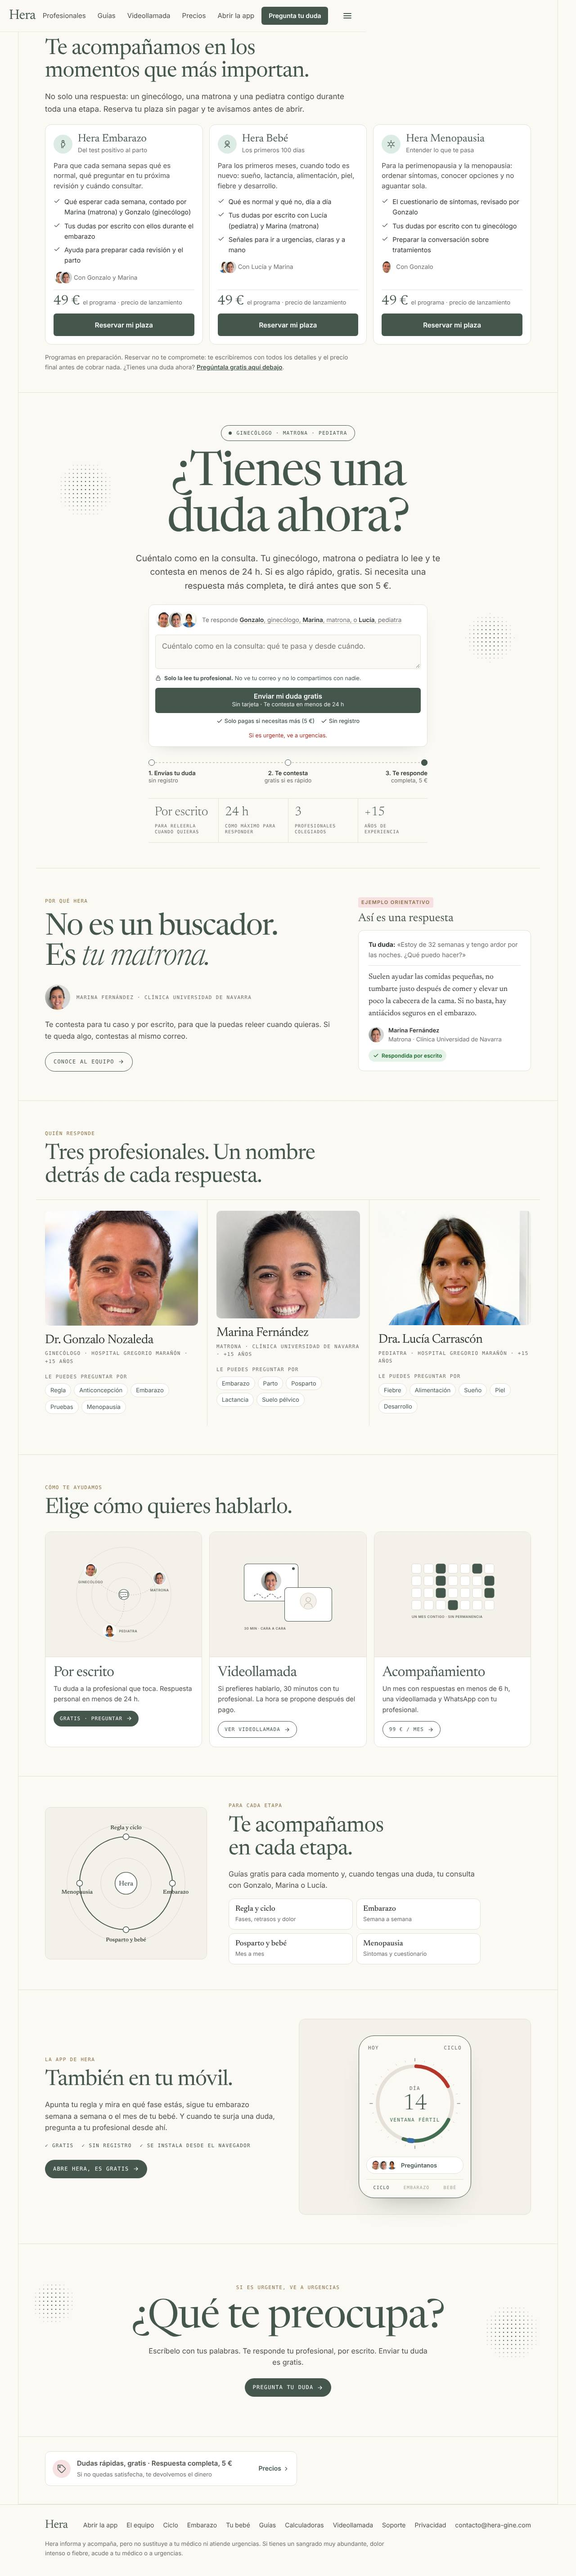
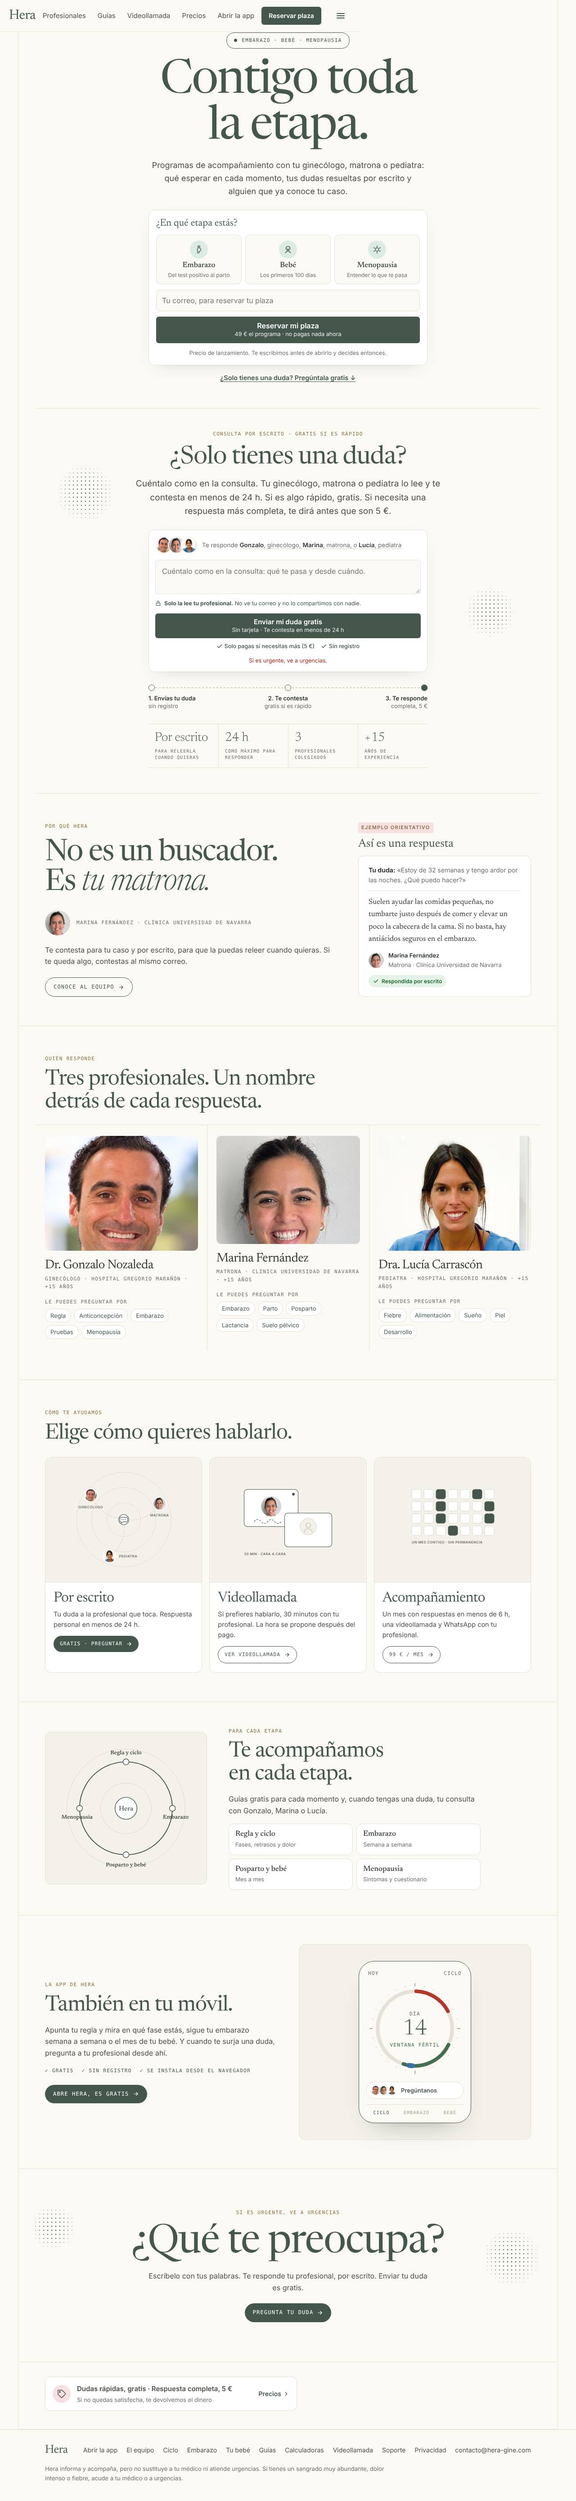
Portada publicada con el acompañamiento arriba; foto del mapa de calor rehecha
Claude-Session: https://claude.ai/code/session_01WQcj2rRWy78CNxMfkYU6ke

diff --git a/consult-worker/src/panel.js b/consult-worker/src/panel.js
@@ -699,8 +699,8 @@ ${opFeed || opRows ? `<div class="card"><h2>Opiniones tras la consulta</h2>${opR
 // Mapa de calor de la portada (Noza, 24 nov): GET /panel/mapa?k=…&v=movil|ordenador&d=1|7
 // Dónde tocan (tabla taps, 31 días) dibujado encima de la portada real (iframe en modo equipo: no cuenta en las métricas),
 // el embudo de la portada (personas distintas de la tabla activity) y la lista de lo que más tocan.
-const TAPS_FROM = Date.parse('2026-11-27T19:34:00Z'); // 27 nov: portada nueva con programas (foto rehecha)
-const MAP_IMG = { movil: [390, 9940, 'https://hera-gine.com/portada/mapa/movil.jpg?v=20261127'], ordenador: [1280, 5719, 'https://hera-gine.com/portada/mapa/ordenador.jpg?v=20261127'] };
+const TAPS_FROM = Date.parse('2026-11-27T20:17:00Z'); // 27 nov (noche): portada con el acompañamiento arriba (foto rehecha)
+const MAP_IMG = { movil: [390, 8814, 'https://hera-gine.com/portada/mapa/movil.jpg?v=202611272'], ordenador: [1280, 5553, 'https://hera-gine.com/portada/mapa/ordenador.jpg?v=202611272'] };
 export async function heatmap(env, url) {
   const k = encodeURIComponent(url.searchParams.get('k') || '');
   const v = url.searchParams.get('v') === 'ordenador' ? 'ordenador' : 'movil';

diff --git a/.claude/ESTADO.md b/.claude/ESTADO.md
@@ -19,6 +19,7 @@ registro de cambios publicados, el más reciente primero. Sin datos personales n
 ## Registro
 
 ### 2026-11-27
+- **Portada: el acompañamiento, lo primero** (Noza: el bloque de programas «parecía un pegote»; «más importancia al acompañamiento, las dudas secundario, otro CTA principal»; borrador 2 aprobado: «dale»). Arriba, con el estilo de siempre: «Contigo toda la etapa.», «Programas de acompañamiento con tu ginecólogo, matrona o pediatra…» y una tarjeta «¿En qué etapa estás?» (Embarazo · Bebé, primeros 100 días · Menopausia) que enseña con quién es y qué incluye, correo y el botón principal «Reservar mi plaza · 49 € el programa · no pagas nada ahora» (`/reserva`, igual que antes). Cabecera: «Reservar plaza» (antes «Pregunta tu duda»). La consulta queda debajo como secundaria: «¿Solo tienes una duda?» (`#duda`, `#ask-h`; los titulares de anuncios por profesional van ahí). Fuera el bloque de tres tarjetas. Mapa de calor: foto rehecha y toques desde ahora. (publicado)
 - **Portada: programas por etapa (prueba de interés)** (Noza, a partir del documento de estrategia para Gonzalo: «vender acompañamiento en una etapa, no una duda suelta»; decidió los tres programas, 49 € y que sea la portada). Arriba del todo, «Te acompañamos en los momentos que más importan» con tres tarjetas: **Hera Embarazo** (Gonzalo y Marina), **Hera Bebé · primeros 100 días** (Lucía y Marina) y **Hera Menopausia** (Gonzalo), cada una con qué incluirá, «49 € el programa · precio de lanzamiento» y «Reservar mi plaza» → correo → **reserva sin pagar** (`POST /reserva`, D1 `reservas`, correo cifrado, 12 meses; aviso a Noza con el correo). Debajo sigue la consulta («¿Tienes una duda ahora?», escribir gratis igual que antes). Panel: tarjeta «Programas: reservas» (vieron la sección, pulsaron y reservas por programa, con los correos). Eventos `programas_vistos`, `clic:programa_<p>`, `reserva:<p>`. **Lo que dice cada programa son promesas a confirmar con Gonzalo, Marina y Lucía** (están marcados «próximamente» y no se cobra nada). Mapa de calor: foto de la portada rehecha y toques desde ahora. Política de privacidad actualizada. (publicado)
 - **Prueba de entrega de correo: 10/10 en mail-tester** (Noza). Firmas del dominio, contenido y reputación bien. Limpieza: borrada la consulta de esa prueba (#ZUMB7MMN, modo equipo, a Gonzalo; entró como consulta normal, no «sin texto», así que a Gonzalo le llegó el correo «POR VALORAR»).
 
